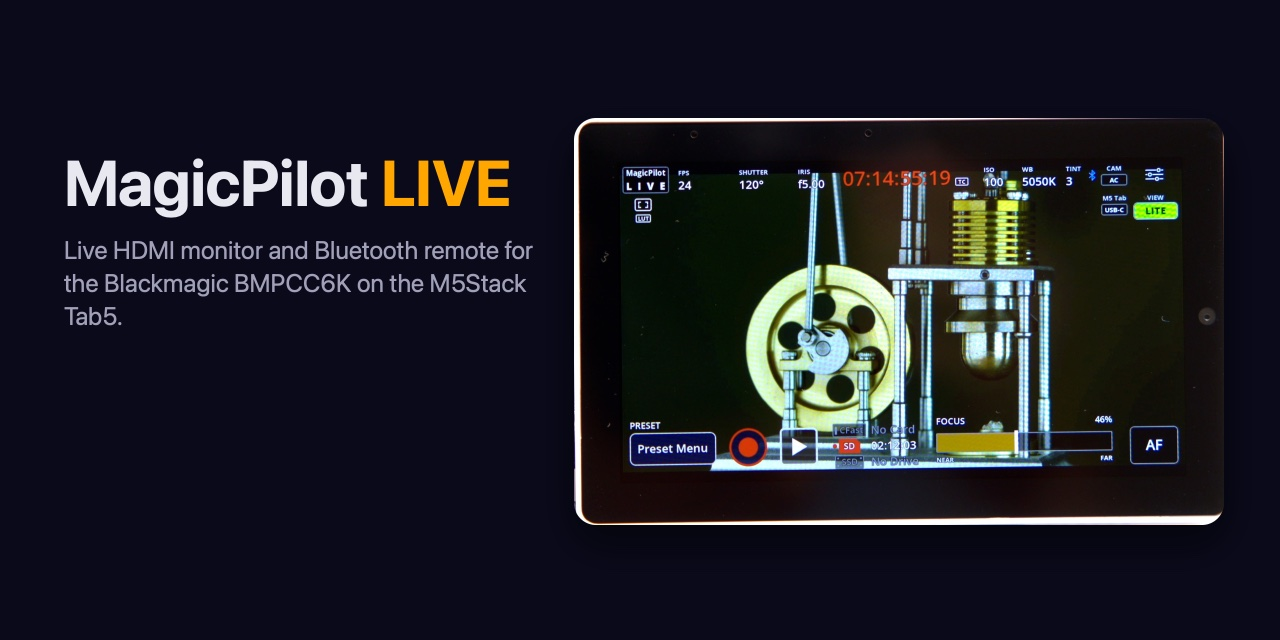
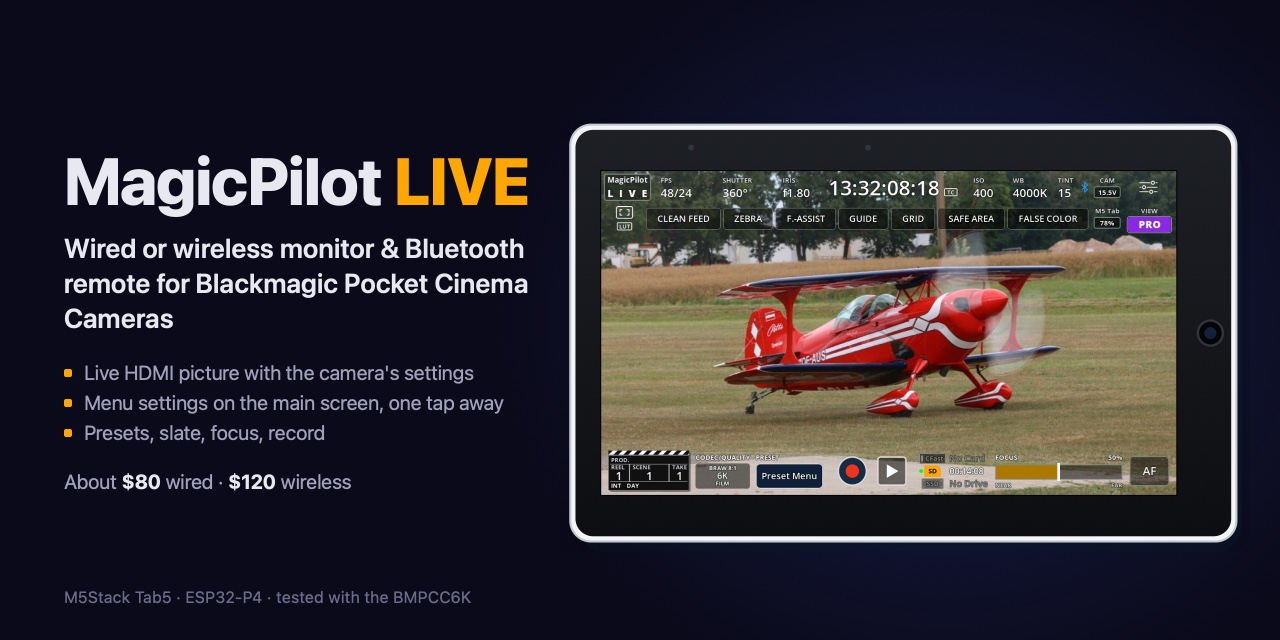
Update MagicPilot LIVE to the project's new description
- Wired or wireless monitor for Blackmagic Pocket Cinema Cameras,
  menu settings on the main screen, about $80 wired or $120 wireless
- Replace the local preview image with the project's new one

diff --git a/list.html b/list.html
@@ -124,7 +124,7 @@
         <img src="images/projects/magicpilot-live.jpg" alt="MagicPilot LIVE on an M5Stack Tab5 showing a Blackmagic camera's live picture under the camera overlay" loading="lazy">
         <div class="body">
           <h3>MagicPilot LIVE</h3>
-          <p>Live HDMI monitor and Bluetooth remote for the Blackmagic Pocket Cinema Camera 6K on the M5Stack Tab5 (ESP32-P4): the camera's picture, by cable or wireless, under a camera-style overlay, with presets, slate and focus. No phone, no app.</p>
+          <p>Wired or wireless monitor and Bluetooth remote for Blackmagic Pocket Cinema Cameras on the M5Stack Tab5: the live HDMI picture with the camera's settings over it, menu settings one tap away, presets, slate and focus. About $80 wired or $120 wireless.</p>
           <div class="tags"><span class="tag">M5Stack Tab5</span><span class="tag">HDMI</span><span class="tag">BLE</span><span class="tag">BMPCC6K</span></div>
           <span class="link">Visit project site →</span>
         </div>

diff --git a/index.html b/index.html
@@ -212,7 +212,7 @@
       {
         id: 'magicpilot-live', title: 'MagicPilot LIVE', wall: 'back', offset: -1.7,
         image: 'images/projects/magicpilot-live.jpg',
-        desc: "Live HDMI monitor and Bluetooth remote for the Blackmagic Pocket Cinema Camera 6K on the M5Stack Tab5 (ESP32-P4): the camera's picture, by cable or wireless, under a camera-style overlay, with presets, slate and focus. No phone, no app.",
+        desc: "Wired or wireless monitor and Bluetooth remote for Blackmagic Pocket Cinema Cameras on the M5Stack Tab5: the live HDMI picture with the camera's settings over it, menu settings one tap away, presets, slate and focus. About $80 wired or $120 wireless.",
         tags: ['M5Stack Tab5', 'HDMI', 'BLE', 'BMPCC6K'],
         url: 'https://kenfilms.github.io/MagicPilot_Live/', cta: 'Visit project site →',
       },
